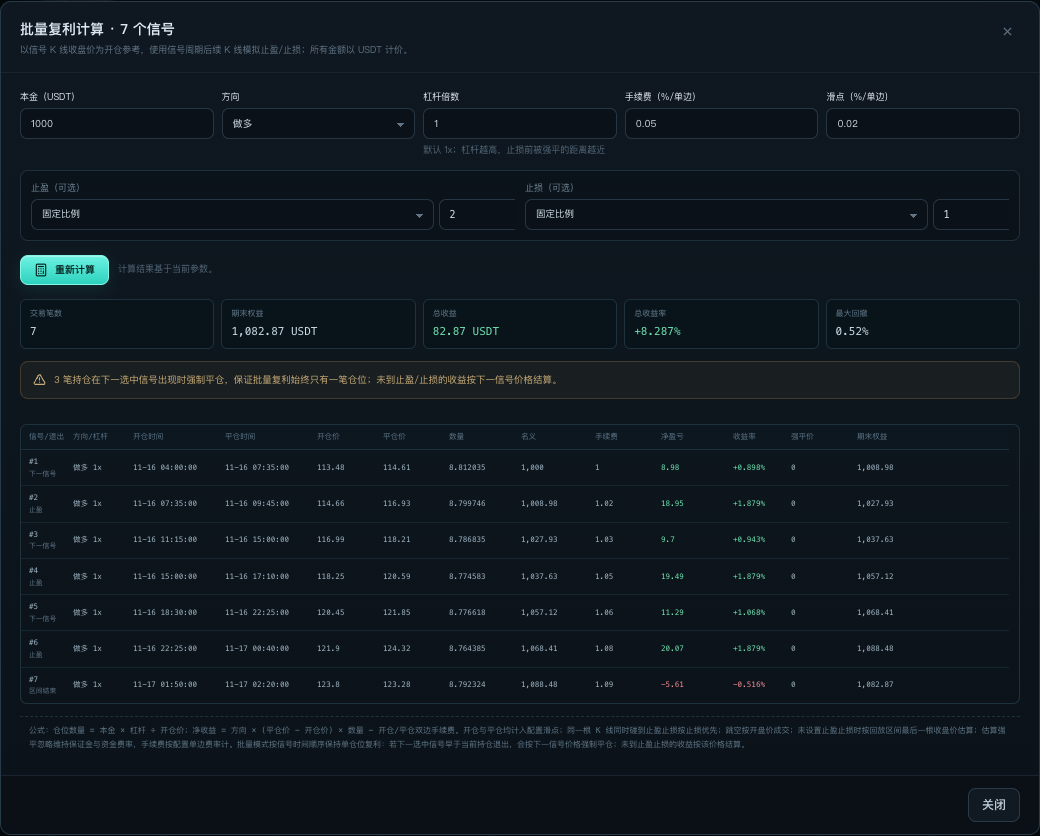
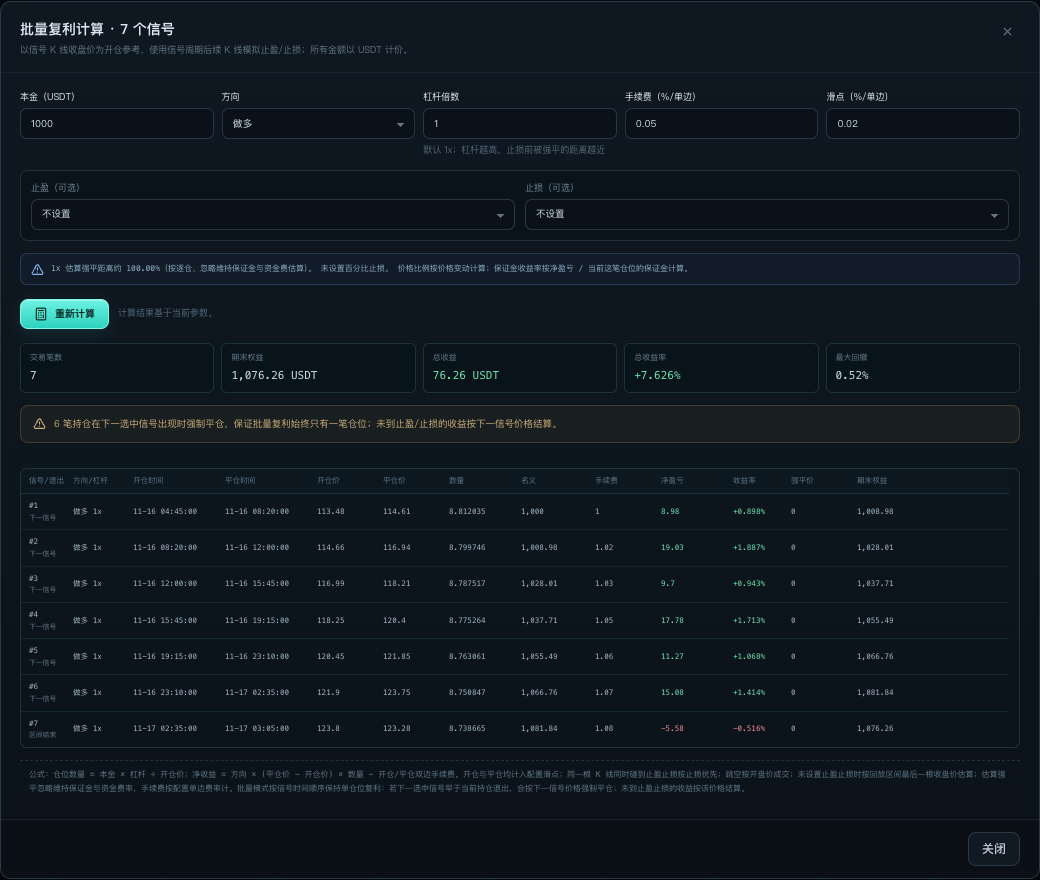
feat(positions): add margin-return stop loss

diff --git a/src/web/components/PositionCalculatorModal.tsx b/src/web/components/PositionCalculatorModal.tsx
@@ -23,10 +23,11 @@ const DEFAULT_CONFIG: PositionCalculatorConfig = {
   stop: { mode: 'none' },
 };
 
-const EXIT_MODES: { value: PositionExitMode; label: string }[] = [
+const EXIT_MODES: { value: PositionExitMode; label: string; stopOnly?: boolean }[] = [
   { value: 'none', label: '不设置' },
   { value: 'price', label: '固定价格' },
-  { value: 'percent', label: '固定比例' },
+  { value: 'percent', label: '价格比例（相对开仓价）' },
+  { value: 'roi', label: '保证金收益率（净盈亏/本金）', stopOnly: true },
   { value: 'indicator', label: '指标值' },
 ];
 
@@ -79,11 +80,13 @@ function ExitControl({
   label,
   rule,
   options,
+  allowRoi = false,
   onChange,
 }: {
   label: string;
   rule: PositionExitRule;
   options: { key: SeriesKey; label: string }[];
+  allowRoi?: boolean;
   onChange: (rule: PositionExitRule) => void;
 }) {
   return (
@@ -97,15 +100,23 @@ function ExitControl({
             ...(mode === 'indicator' && options[0] ? { series: options[0].key } : {}),
           });
         }}>
-          {EXIT_MODES.map((mode) => <option key={mode.value} value={mode.value}>{mode.label}</option>)}
+          {EXIT_MODES.filter((mode) => allowRoi || !mode.stopOnly).map((mode) => (
+            <option key={mode.value} value={mode.value}>{mode.label}</option>
+          ))}
         </select>
         {rule.mode === 'price' ? (
           <input className="input" type="number" min="0" step="any" placeholder="价格" value={rule.price ?? ''} onChange={(event) => onChange({ ...rule, price: Number(event.target.value) })} />
         ) : null}
         {rule.mode === 'percent' ? (
           <div className="position-input-suffix">
-            <input className="input" type="number" min="0" step="0.1" placeholder="比例" value={rule.percent ?? ''} onChange={(event) => onChange({ ...rule, percent: Number(event.target.value) })} />
-            <span>%</span>
+            <input className="input" type="number" min="0" step="0.1" placeholder="价格比例" value={rule.percent ?? ''} onChange={(event) => onChange({ ...rule, percent: Number(event.target.value) })} />
+            <span>% 价格</span>
+          </div>
+        ) : null}
+        {rule.mode === 'roi' ? (
+          <div className="position-input-suffix">
+            <input className="input" type="number" min="0" step="0.1" placeholder="保证金收益率" value={rule.roiPercent ?? ''} onChange={(event) => onChange({ ...rule, roiPercent: Number(event.target.value) })} />
+            <span>% 净收益率</span>
           </div>
         ) : null}
         {rule.mode === 'indicator' ? (
@@ -183,9 +194,13 @@ export function PositionCalculatorModal({
   const stopPercent = config.stop.mode === 'percent' && typeof config.stop.percent === 'number' && Number.isFinite(config.stop.percent)
     ? config.stop.percent
     : null;
-  const stopBeyondLiquidation = stopPercent !== null
+  const stopRoiPercent = config.stop.mode === 'roi' && typeof config.stop.roiPercent === 'number' && Number.isFinite(config.stop.roiPercent)
+    ? config.stop.roiPercent
+    : null;
+  const effectiveStopMovePct = stopPercent ?? (stopRoiPercent !== null ? stopRoiPercent / config.leverage : null);
+  const stopBeyondLiquidation = effectiveStopMovePct !== null
     && liquidationDistancePct !== null
-    && stopPercent >= liquidationDistancePct;
+    && effectiveStopMovePct >= liquidationDistancePct;
 
   return (
     <Modal
@@ -220,8 +235,8 @@ export function PositionCalculatorModal({
         </div>
 
         <div className="position-exits">
-          <ExitControl label="止盈（可选，价格比例）" rule={config.target} options={options} onChange={(target) => updateConfig({ target })} />
-          <ExitControl label="止损（可选，价格比例）" rule={config.stop} options={options} onChange={(stop) => updateConfig({ stop })} />
+          <ExitControl label="止盈（可选）" rule={config.target} options={options} onChange={(target) => updateConfig({ target })} />
+          <ExitControl label="止损（可选）" rule={config.stop} options={options} allowRoi onChange={(stop) => updateConfig({ stop })} />
         </div>
 
         {liquidationDistancePct !== null ? (
@@ -229,18 +244,20 @@ export function PositionCalculatorModal({
             <TriangleAlert size={13} />
             <span>
               {config.leverage}x 估算强平距离约 {liquidationDistancePct.toFixed(2)}%（按逐仓、忽略维持保证金与资金费估算）。
-              {stopPercent === null
-                ? ' 未设置比例止损。'
-                : stopBeyondLiquidation
-                  ? ` 当前 ${stopPercent}% 止损在强平价之外，实际会先触发强平；如需止损先生效，请降低杠杆到约 ${Math.floor(100 / stopPercent)}x 以下，或把止损比例降到约 ${liquidationDistancePct.toFixed(2)}% 以内。`
-                  : ` 当前 ${stopPercent}% 止损位于估算强平之前，止损可以先生效。`}
-              {' '}止损比例是价格变动百分比，不是保证金亏损百分比。
+              {stopPercent === null && stopRoiPercent === null
+                ? ' 未设置百分比止损。'
+                : stopRoiPercent !== null
+                  ? ` 当前保证金收益率止损 ${stopRoiPercent}% 约对应价格反向 ${effectiveStopMovePct?.toFixed(3)}%；${stopBeyondLiquidation ? '它在强平价之外，实际会先触发强平。' : '它位于估算强平之前，会按净盈亏约 −' + stopRoiPercent + '% 触发。'}`
+                  : stopBeyondLiquidation
+                    ? ` 当前价格比例止损 ${stopPercent}% 在强平价之外，实际会先触发强平；如需止损先生效，请降低杠杆到约 ${Math.floor(100 / (stopPercent ?? 1))}x 以下，或把止损比例降到约 ${liquidationDistancePct.toFixed(2)}% 以内。`
+                    : ` 当前价格比例止损 ${stopPercent}% 位于估算强平之前，止损可以先生效。`}
+              {' '}价格比例按价格变动计算；保证金收益率按净盈亏 / 当前这笔仓位的保证金计算。
             </span>
           </div>
         ) : null}
 
         {options.length === 0 ? (
-          <div className="form-hint">当前信号没有可用于止盈/止损的价格类指标；可改用固定价格或固定比例。</div>
+          <div className="form-hint">当前信号没有可用于止盈/止损的价格类指标；可改用固定价格、价格比例或保证金收益率。</div>
         ) : null}
 
         <div className="position-calc-actions">

diff --git a/src/server/positionCalculator.ts b/src/server/positionCalculator.ts
@@ -45,14 +45,20 @@ export function validatePositionConfig(config: PositionCalculatorConfig): void {
     throw new PositionCalcError('滑点必须在 0–10% 之间（单边）');
   }
   for (const [name, rule] of [['止盈', config.target], ['止损', config.stop]] as const) {
-    if (!['none', 'price', 'percent', 'indicator'].includes(rule.mode)) {
+    if (!['none', 'price', 'percent', 'indicator', 'roi'].includes(rule.mode)) {
       throw new PositionCalcError(`${name}方式不合法`);
+    }
+    if (rule.mode === 'roi' && name !== '止损') {
+      throw new PositionCalcError('收益率模式仅支持止损');
     }
     if (rule.mode === 'price' && (!isFinitePositive(rule.price) || rule.price <= 0)) {
       throw new PositionCalcError(`${name}固定价格必须是大于 0 的有限数字`);
     }
     if (rule.mode === 'percent' && (!isFinitePositive(rule.percent) || rule.percent > 1000)) {
       throw new PositionCalcError(`${name}比例必须在 0–1000% 之间`);
+    }
+    if (rule.mode === 'roi' && (!isFinitePositive(rule.roiPercent) || rule.roiPercent > 1000)) {
+      throw new PositionCalcError(`${name}收益率必须在 0–1000% 之间`);
     }
     if (rule.mode === 'indicator' && (!rule.series || !SERIES_CATALOG[rule.series] || SERIES_CATALOG[rule.series].unit !== 'price')) {
       throw new PositionCalcError(`${name}指标必须是价格类指标`);
@@ -83,6 +89,7 @@ function resolveExit(
 ): number | null {
   if (mode === 'none') return null;
   if (mode === 'price') return rule.price ?? null;
+  if (mode === 'roi') throw new PositionCalcError('收益率模式不能作为止盈');
   if (mode === 'percent') {
     const delta = entry * ((rule.percent ?? 0) / 100);
     const favorable = direction === 'long' ? entry + delta : entry - delta;
@@ -120,14 +127,47 @@ function plannedNet(
   return gross - feeAmount(quantity, entry, config.feeRatePct) - feeAmount(quantity, exit, config.feeRatePct);
 }
 
+function priceForMarginRoi(
+  entry: number,
+  quantity: number,
+  margin: number,
+  roiPct: number,
+  direction: 'long' | 'short',
+  config: PositionCalculatorConfig,
+): number {
+  const targetNet = -(margin * roiPct) / 100;
+  const atEntry = plannedNet(quantity, entry, entry, direction, config);
+  if (targetNet >= atEntry) return entry;
+
+  let low = direction === 'long' ? entry * 1e-6 : entry;
+  let high = direction === 'long' ? entry : entry * 1e6;
+  for (let i = 0; i < 160; i++) {
+    const mid = (low + high) / 2;
+    const net = plannedNet(quantity, entry, mid, direction, config);
+    if (direction === 'long') {
+      if (net > targetNet) high = mid;
+      else low = mid;
+    } else if (net > targetNet) {
+      low = mid;
+    } else {
+      high = mid;
+    }
+  }
+  return (low + high) / 2;
+}
+
 function resolveTradeLevels(
   trigger: TrialTrigger,
   entry: number,
+  quantity: number,
+  margin: number,
   config: PositionCalculatorConfig,
 ): ResolvedTrade {
   const direction = config.direction;
   const targetPrice = resolveExit(config.target.mode, config.target, entry, direction, trigger, '止盈', 'target');
-  const stopPrice = resolveExit(config.stop.mode, config.stop, entry, direction, trigger, '止损', 'stop');
+  const stopPrice = config.stop.mode === 'roi'
+    ? priceForMarginRoi(entry, quantity, margin, config.stop.roiPercent ?? 0, direction, config)
+    : resolveExit(config.stop.mode, config.stop, entry, direction, trigger, '止损', 'stop');
   if (targetPrice !== null) {
     if (direction === 'long' ? targetPrice <= entry : targetPrice >= entry) {
       throw new PositionCalcError(`止盈价 ${targetPrice} 不在 ${direction === 'long' ? '开仓价上方' : '开仓价下方'}（信号 #${trigger.triggerAt}）`);
@@ -160,7 +200,7 @@ function simulateTrade(
   if (!isFinitePositive(entryPrice)) throw new PositionCalcError('信号价格不合法');
   const quantity = (equityBefore * config.leverage) / entryPrice;
   if (!Number.isFinite(quantity) || quantity <= 0) throw new PositionCalcError('仓位数量计算失败');
-  const levels = resolveTradeLevels(trigger, entryPrice, config);
+  const levels = resolveTradeLevels(trigger, entryPrice, quantity, equityBefore, config);
   const { targetPrice, stopPrice, liquidationPrice } = levels;
 
   const plannedTargetPnl = targetPrice === null ? null : plannedNet(quantity, entryPrice, targetPrice, direction, config);
@@ -363,6 +403,9 @@ export function calculatePositions(options: {
 
   if (config.stop.mode === 'percent' && (config.stop.percent ?? 0) * config.leverage >= 100) {
     warnings.push('止损比例 × 杠杆 ≥ 100%，单笔价格止损可能亏损全部保证金；请降低杠杆或缩小止损比例');
+  }
+  if (config.stop.mode === 'roi' && (config.stop.roiPercent ?? 0) >= 100) {
+    warnings.push('保证金收益率止损 ≥ 100%，可能在触发止损前先亏损全部保证金；请降低止损收益率或杠杆');
   }
 
   let runningPeak = config.capital;

diff --git a/tests/e2e/app.spec.ts b/tests/e2e/app.spec.ts
@@ -524,8 +524,13 @@ test.describe.serial('Market Sentinel system flow', () => {
     // High leverage makes a wide percentage stop unreachable before liquidation.
     await modal.locator('.position-config-grid input[type="number"]').nth(1).fill('40');
     await exits.nth(1).locator('input[type="number"]').fill('25');
-    await expect(modal.locator('.position-risk-hint.danger')).toContainText('止损在强平价之外');
+    await expect(modal.locator('.position-risk-hint.danger')).toContainText('在强平价之外');
+    await exits.nth(1).locator('select').selectOption('roi');
+    await exits.nth(1).locator('input[type="number"]').fill('25');
+    await expect(modal.locator('.position-risk-hint')).toContainText('保证金收益率止损');
+    await expect(modal.locator('.position-risk-hint')).not.toHaveClass(/danger/);
     await modal.locator('.position-config-grid input[type="number"]').nth(1).fill('1');
+    await exits.nth(1).locator('select').selectOption('percent');
     await exits.nth(1).locator('input[type="number"]').fill('1');
     await modal.getByTestId('position-calculate').click();
     await expect(modal.getByTestId('position-calc-single')).toContainText('盈亏比');

diff --git a/tests/unit/position-calculator.test.ts b/tests/unit/position-calculator.test.ts
@@ -282,6 +282,29 @@ describe('position calculator', () => {
     expect(trade.equityAfter).toBe(0);
   });
 
+  it('supports a net margin-return stop independent of price percentage', () => {
+    const result = calculatePositions({
+      triggers: [trigger()],
+      triggerIndexes: [0],
+      candles: [candle(300_000, 100, 101, 95, 100)],
+      timeframeMs: tfMs,
+      endTime: 900_000,
+      config: config({
+        leverage: 10,
+        feeRatePct: 0,
+        slippagePct: 0,
+        target: { mode: 'none' },
+        stop: { mode: 'roi', roiPercent: 25 },
+      }),
+    });
+    const trade = result.trades[0];
+    expect(trade.exitReason).toBe('stop');
+    expect(trade.stopPrice).toBeCloseTo(97.5, 8);
+    expect(trade.netPnl).toBeCloseTo(-250, 8);
+    expect(trade.roiPct).toBeCloseTo(-25, 8);
+    expect(trade.stopBeyondLiquidation).toBe(false);
+  });
+
   it('marks risk/reward unavailable when the stop is beyond liquidation', () => {
     const result = calculatePositions({
       triggers: [trigger()],

diff --git a/src/server/api/routes.ts b/src/server/api/routes.ts
@@ -163,6 +163,7 @@ function canonicalPositionConfig(config: PositionCalculatorConfig) {
     mode: rule.mode,
     ...(rule.mode === 'price' ? { price: rule.price } : {}),
     ...(rule.mode === 'percent' ? { percent: rule.percent } : {}),
+    ...(rule.mode === 'roi' ? { roiPercent: rule.roiPercent } : {}),
     ...(rule.mode === 'indicator' ? { series: rule.series } : {}),
   });
   return {
@@ -178,7 +179,7 @@ function canonicalPositionConfig(config: PositionCalculatorConfig) {
 
 function positionCacheKey(config: PositionCalculatorConfig, triggerIndexes: number[]): string {
   return createHash('sha256').update(JSON.stringify({
-    algorithm: 'position-calc-v3',
+    algorithm: 'position-calc-v4',
     config: canonicalPositionConfig(config),
     triggerIndexes: [...triggerIndexes].sort((a, b) => a - b),
   })).digest('hex');

diff --git a/src/shared/types.ts b/src/shared/types.ts
@@ -478,14 +478,16 @@ export interface ReplayRecord extends ReplaySummary {
 }
 
 export type PositionDirection = 'long' | 'short';
-export type PositionExitMode = 'none' | 'price' | 'percent' | 'indicator';
+export type PositionExitMode = 'none' | 'price' | 'percent' | 'indicator' | 'roi';
 
 export interface PositionExitRule {
   mode: PositionExitMode;
   /** Absolute price for mode=price. */
   price?: number;
-  /** Positive percentage distance from entry for mode=percent. */
+  /** Positive price-move percentage from entry for mode=percent. */
   percent?: number;
+  /** Positive net-return percentage on allocated margin for mode=roi (stop only). */
+  roiPercent?: number;
   /** Price-like indicator series used by mode=indicator. */
   series?: SeriesKey;
 }

diff --git a/src/web/app.css b/src/web/app.css
@@ -625,3 +625,6 @@ h1,h2,h3,p{margin-top:0}
 .position-risk-hint svg{flex:0 0 auto;color:#8bb7f4;margin-top:1px}
 .position-risk-hint.danger{border-color:rgba(240,97,106,.3);background:rgba(240,97,106,.06);color:#d9a4a7}
 .position-risk-hint.danger svg{color:#f08b92}
+
+.position-input-suffix{flex:0 0 auto}
+.position-input-suffix span{white-space:nowrap}

diff --git a/TEST_REPORT.md b/TEST_REPORT.md
@@ -25,9 +25,9 @@
 | 测试层 | 结果 |
 |---|---|
 | TypeScript 类型检查 | 通过 |
-| 单元 + 集成测试 | **30 个测试文件，161 个测试全部通过**（~2s 测试耗时） |
+| 单元 + 集成测试 | **30 个测试文件，162 个测试全部通过**（~2s 测试耗时） |
 | 浏览器 E2E | **17 个场景全部通过**（~29s） |
-| 构建 | 通过（Vite + esbuild；服务端 242 KB，主前端 1.52 MB / 494 KB gzip；KLineChart 共享懒加载 chunk 265 KB / 70 KB gzip；回放页 chunk 19 KB / 6 KB gzip） |
+| 构建 | 通过（Vite + esbuild；服务端 244 KB，主前端 1.52 MB / 494 KB gzip；KLineChart 共享懒加载 chunk 265 KB / 70 KB gzip；回放页 chunk 19 KB / 6 KB gzip） |
 | 依赖安全审计 | `npm audit`、`npm audit --omit=dev` 均为 **0 vulnerabilities** |
 | Docker 镜像 | `market-sentinel:1.0.0`，约 266 MB |
 | 容器健康 | `healthy` |
@@ -65,7 +65,7 @@ http://127.0.0.1:8787
 | `tests/integration/chart-api.test.ts` | 3 | K 线 before 分页、非法参数、SSE 首帧与响应头 |
 | `tests/unit/replay-period.test.ts` | 5 | 自定义日期归一化、时区/夏令时、全天/每日时段、跨午夜、非法输入 |
 | `tests/unit/us-market-calendar.test.ts` | 5 | 周末、常规 NYSE 节假日、观测日、耶稣受难日、Juneteenth、早收盘、历史临时休市 |
-| `tests/unit/position-calculator.test.ts` | 13 | 多空单笔/批量复利、手续费/滑点、百分比与指标止盈止损、跳空/同K线止损、强平、盈亏比与错误参数 |
+| `tests/unit/position-calculator.test.ts` | 14 | 多空单笔/批量复利、手续费/滑点、百分比与指标止盈止损、跳空/同K线止损、强平、盈亏比与错误参数 |
 | `tests/integration/rule-filter.test.ts` | 2 | 美股过滤开关 CRUD、负数/小数阈值持久化、非法过滤值拒绝 |
 | `tests/integration/rule-replay.test.ts` | 5 | 已保存规则回放 API、图表周期、触发元数据、记录保存/读取、规则版本更新后新快照、仓位计算 API、非法参数/规则 404 |
 | `tests/integration/replay-async.test.ts` | 1 | 异步回放任务持久化、预估耗时、自定义区间完成/保存 |
@@ -244,6 +244,7 @@ E2E 同时检查浏览器 console error 与 page error，最终为 0。
 | 26 | 1m/30d 回放读取本地 K 线被默认 20,000 根 LIMIT 截断，误报 46.1% 覆盖并反复补数 | 按请求区间动态提高 getCandleRange 上限；增加 25,000 根本地读取测试；现有旧快照需重跑 |
 | 27 | 40x 杠杆下 25% 价格止损被提示超过强平价，用户误以为是止损未生效 | 参数区前置计算强平距离并明确百分比口径；提示需降低杠杆或把止损降到约 2.5% 内；计算仍保留警告 |
 | 28 | 止损超过强平后仍显示名义盈亏比 1.99，容易误读为实际风险收益 | 止损超过强平时 `riskReward` 置空并显示“盈亏比不可用”；缓存版本升至 v3，旧记录读取时归一化 |
+| 29 | “固定比例”被误解为保证金亏损比例，且缺少按剩余本金计算的止损 | 改名为“价格比例（相对开仓价）”；新增“保证金收益率”止损，按净盈亏/当前仓位保证金反推价格，25% 即亏损当前权益 25% 时止损；缓存升至 v4 |
 | 25 | 40x 杠杆配 40% 止损时止损价远高于强平价，用户误以为止损应生效 | 明确提示止损超过估算强平价、止损比例×杠杆≥100%；默认杠杆改为 1x |
 
 ## 7. 已知限制 / 未覆盖项

diff --git a/README.md b/README.md
@@ -309,7 +309,7 @@ npm start
 
 在单次回放中，点击 K 线信号标记、清单中的计算器图标，或勾选多条信号后点击“仓位计算”打开。
 
-- 输入本金、方向、杠杆倍数、单边手续费率、单边滑点和可选的止盈/止损；止盈止损支持固定价格、固定比例或信号条件中的价格类指标值。
+- 输入本金、方向、杠杆倍数、单边手续费率、单边滑点和可选的止盈/止损；止盈止损支持固定价格、价格比例（相对开仓价）、指标值；止损额外支持保证金收益率（净盈亏 / 当前仓位保证金）。
 - 单笔结果展示交易品种、方向/杠杆、保证金模式、开仓/平仓时间、持仓时长、开仓/平仓价、数量、名义价值、初始保证金、维持保证金/资金费（未计）、止盈/止损/估算强平价、退出原因、开/平仓手续费拆分、总手续费、毛/净盈亏、保证金收益率、名义收益率、盈亏比和权益前后。
 - 批量模式按信号时间顺序使用当前权益复利，**所有选中信号都会计算**；若下一信号早于当前持仓止盈/止损，会按下一信号价格强制平仓，保证始终只有一笔仓位，并在结果中提示强制平仓笔数。
 - 编辑参数不会自动发起请求；修改本金、方向、杠杆、止盈止损后点击“开始计算”，结果基于当前参数生成。
@@ -523,7 +523,7 @@ npm run chart:perf     # 20k K 线外部盘性能基准
 
 当前版本包含：
 
-- **161** 个单元/集成测试（30 个文件）
+- **162** 个单元/集成测试（30 个文件）
 - **17** 个浏览器 E2E 场景（含自定义异步回放、仓位计算、长名称布局、PushPlus、专业图表、PC/移动端全屏和手机 / 平板 / 1024px 断点）
 - 加速 3 天行情回放（864 根 5m K 线）
 - OKX REST/WS 模拟服务、断线重连、Discord / PushPlus 投递与重试、历史回放/版本缓存失效/自定义时段/异步任务、本地增量补齐、负数/小数阈值、美股交易日过滤、仓位数学/复利/强平、图表分页/SSE、Volume Profile、安全静态资源、Docker 验收

diff --git a/CHANGELOG.md b/CHANGELOG.md
@@ -33,6 +33,7 @@ and this project adheres to [Semantic Versioning](https://semver.org/spec/v2.0.0
 
 - Position config now warns before calculation when a percentage stop lies beyond the estimated liquidation distance and explains that stop percentages are price moves, not margin-loss percentages.
 - Risk/reward is now omitted when the configured stop is beyond estimated liquidation; cached records are normalized when read.
+- Renamed the ambiguous “fixed percentage” exit mode to price percentage and added a net margin-return stop that targets a percentage of the current position margin, including fees and slippage.
 - Fixed a 20,000-row local candle range cap that made 1m/30-day replays report false 46% coverage and repeatedly refetch the same missing bars.
 - Async replay elapsed clock now derives from the job start timestamp and ticks every second instead of staying at 0.
 - Position calculator no longer auto-runs on every keystroke; an explicit “开始计算” button produces results only after parameters are confirmed.
@@ -78,6 +79,7 @@ and this project adheres to [Semantic Versioning](https://semver.org/spec/v2.0.0
 
 - Position config now warns before calculation when a percentage stop lies beyond the estimated liquidation distance and explains that stop percentages are price moves, not margin-loss percentages.
 - Risk/reward is now omitted when the configured stop is beyond estimated liquidation; cached records are normalized when read.
+- Renamed the ambiguous “fixed percentage” exit mode to price percentage and added a net margin-return stop that targets a percentage of the current position margin, including fees and slippage.
 - Fixed a 20,000-row local candle range cap that made 1m/30-day replays report false 46% coverage and repeatedly refetch the same missing bars.
 - Async replay elapsed clock now derives from the job start timestamp and ticks every second instead of staying at 0.
 - Position calculator no longer auto-runs on every keystroke; an explicit “开始计算” button produces results only after parameters are confirmed.

diff --git a/docs/API.md b/docs/API.md
@@ -200,8 +200,8 @@ curl -X POST http://127.0.0.1:8787/api/rules \
 }
 ```
 
-- `target`/`stop` 的 `mode`：`none | price | percent | indicator`。`indicator` 可取信号周期上的任意价格类指标（价格/Bollinger 等），服务端按默认参数在触发 K 线计算，不依赖图表周期。
-- `price` 为绝对价格；`percent` 为相对开仓价的正百分比；`indicator` 的 `series` 必须是价格类指标，并取该信号条件快照里的值。
+- `target`/`stop` 的 `mode`：`none | price | percent | indicator`；`stop` 额外支持 `roi`。`indicator` 可取信号周期上的任意价格类指标（价格/Bollinger 等），服务端按默认参数在触发 K 线计算，不依赖图表周期。
+- `price` 为绝对价格；`percent` 为相对开仓价的价格百分比；`roi` 为保证金净收益率（亏损达到当前投入保证金的 `roiPercent`% 时止损，服务端会按手续费和滑点反推价格）；`indicator` 的 `series` 必须是价格类指标，并取该信号条件快照里的值。
 - 默认单边手续费 0.05%、单边滑点 0.02%；手续费和滑点均参与净收益和盈亏比计算。
[1 lines of base64/hex data omitted]
 - 同一根 K 线同时触发止盈止损按止损优先；跳空按开盘价；未设置止盈止损时按区间最后收盘价；强平按逐仓保证金上限截断；未计资金费率、维持保证金和手续费等级差异。
